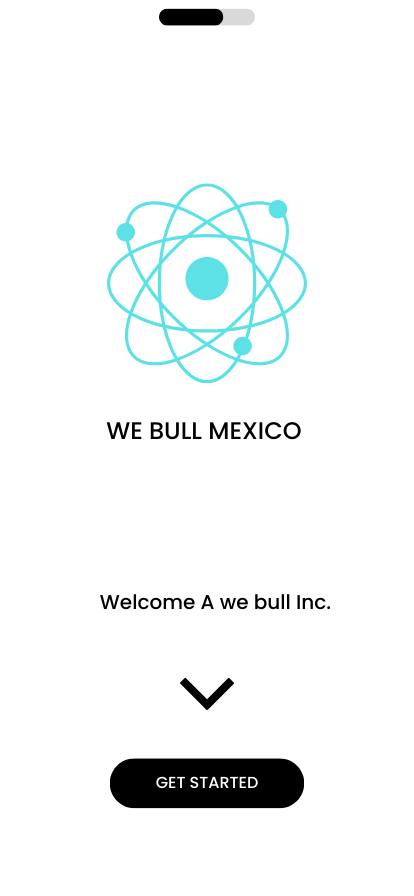
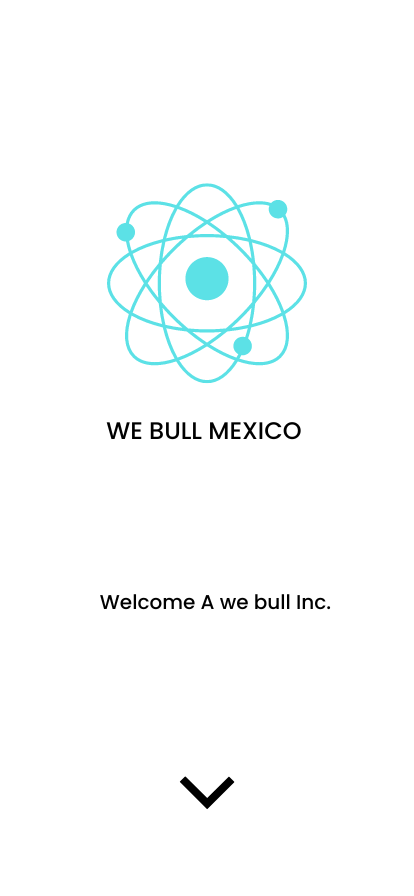
version x

diff --git a/index.html b/index.html
@@ -58,6 +58,8 @@
     
 
     <img src="./IMAGES/ Red and Grey Minimalist Delivery App Mobile Prototype.png">
+    
+    <button class="btn" onclick="window.location.href='https://1benjaminfuentes.github.io/cuestionario.html'">GET STARTED</button>
 
 
 
